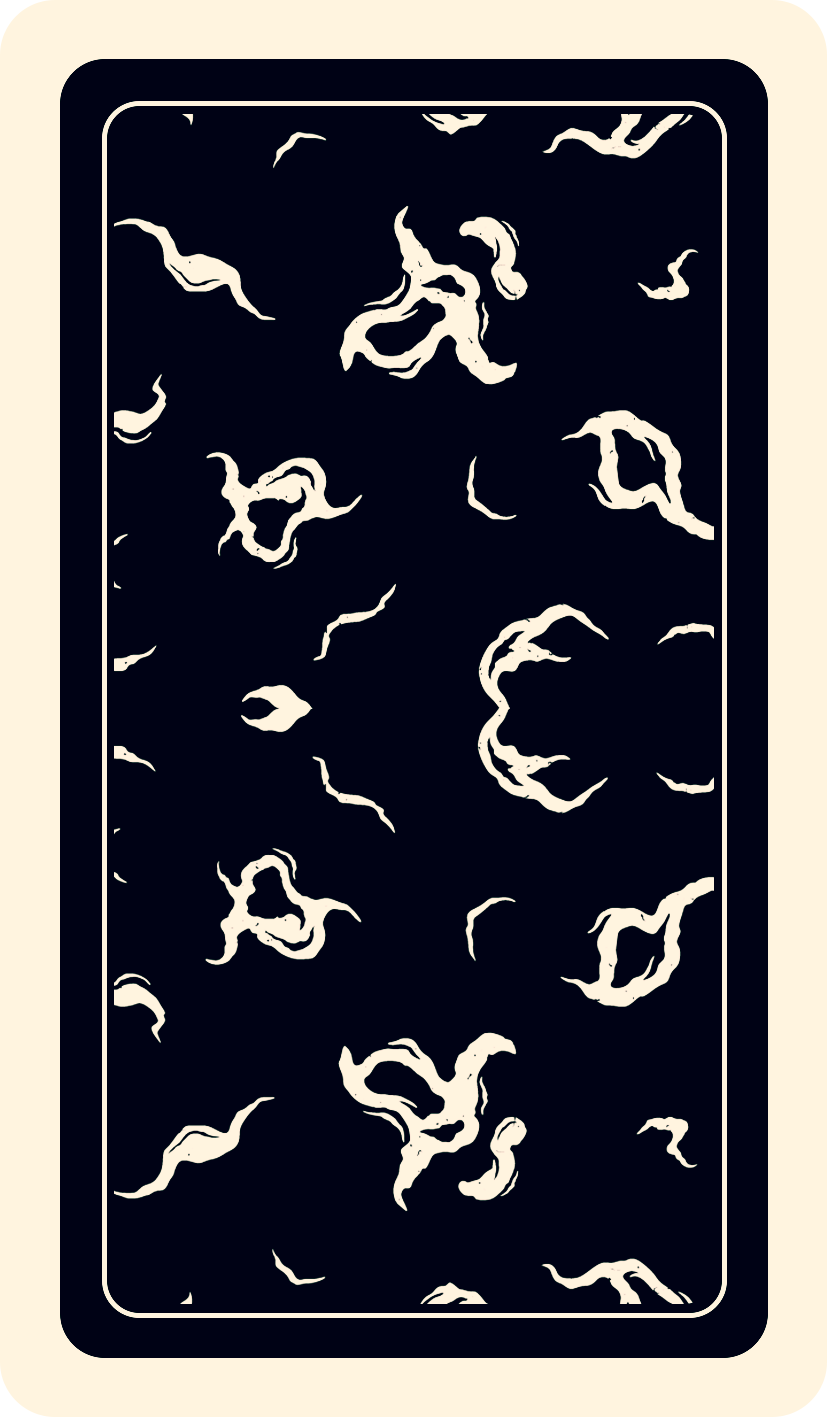
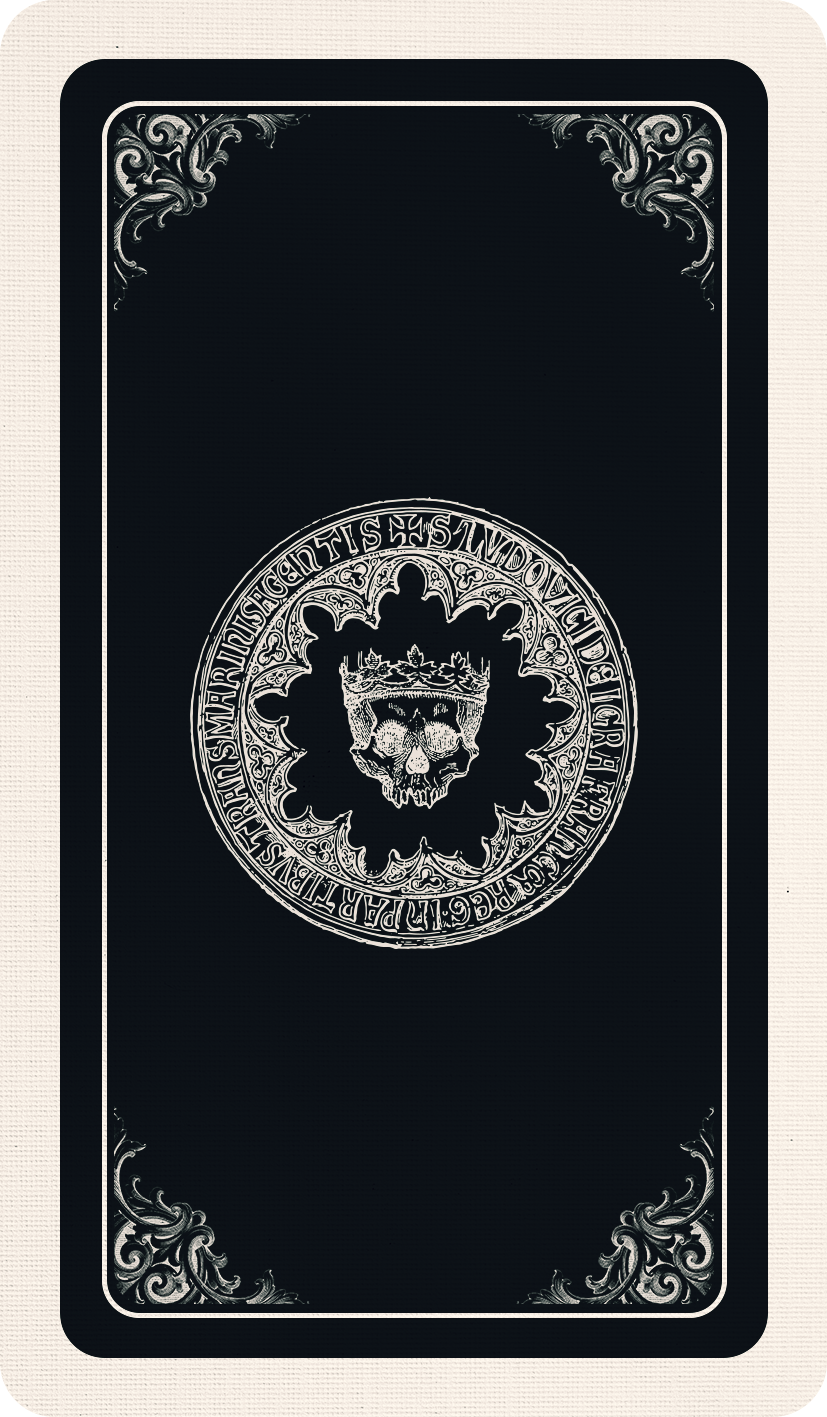
updated card

diff --git a/src/app/components/card/card-scene.tsx b/src/app/components/card/card-scene.tsx
@@ -4,28 +4,40 @@ import { Float, useTexture } from "@react-three/drei";
 import { animated, useSpring } from "@react-spring/three";
 
 export function CardScene() {
-  const [flipped, setFlipped] = useState(false);
-  const [isFlipping, setIsFlipping] = useState(false);
+  const [isFlipped, setIsFlipped] = useState(true);
+  const [isAnimating, setIsAnimating] = useState(false);
 
-  const [cardFront] = useTexture(["/images/card-front.png"]);
+  const [cardFront] = useTexture(["/images/tarot-front.png"]);
   const [cardBack] = useTexture(["/images/tarot-back.png"]);
   const [springs] = useSpring(
     () => ({
-      rotationY: flipped ? -3.2 : 0,
-      onStart: () => setIsFlipping(true),
-      onResolve: () => setIsFlipping(false),
+      rotationY: isFlipped ? -3.2 : 0,
+      onStart: () => setIsAnimating(true),
+      onResolve: () => setIsAnimating(false),
     }),
-    [flipped, setIsFlipping]
+    [isFlipped, setIsAnimating]
   );
+
+  const handleMouseEnter = () => {
+    document.body.classList.add("cursor-pointer");
+  };
+
+  const handleMouseLeave = () => {
+    document.body.classList.remove("cursor-pointer");
+  };
 
   return (
     <>
-      <pointLight intensity={75} position={[0, 1, 5]}></pointLight>
-      <Float speed={3} floatingRange={[0.25, -0.25]}>
+      <pointLight intensity={60} position={[0, 1, 5]}></pointLight>
+      <Float speed={3} floatingRange={[0.1, -0.1]}>
         <animated.mesh
           castShadow
           rotation-y={springs.rotationY}
-          onClick={!isFlipping ? () => setFlipped((prev) => !prev) : undefined}
+          onClick={
+            !isAnimating ? () => setIsFlipped((prev) => !prev) : undefined
+          }
+          onPointerEnter={handleMouseEnter}
+          onPointerLeave={handleMouseLeave}
         >
           <planeGeometry args={[70 / 22, 120 / 22, 10, 10]}></planeGeometry>
           <meshLambertMaterial
@@ -43,7 +55,11 @@ export function CardScene() {
         </animated.mesh>
         <animated.mesh
           rotation-y={springs.rotationY}
-          onClick={!isFlipping ? () => setFlipped((prev) => !prev) : undefined}
+          onClick={
+            !isAnimating ? () => setIsFlipped((prev) => !prev) : undefined
+          }
+          onPointerEnter={handleMouseEnter}
+          onPointerLeave={handleMouseLeave}
         >
           <planeGeometry args={[70 / 22, 120 / 22, 10, 10]}></planeGeometry>
           <meshLambertMaterial

diff --git a/src/app/page.tsx b/src/app/page.tsx
@@ -24,7 +24,7 @@ export default function Home() {
   return (
     <section>
       <div className="h-[calc(100vh-15rem)] mb-24 flex flex-col justify-stretch items-stretch">
-        <div className="relative w-full mb-16 flex-1 flex flex-col justify-center">
+        <div className="relative w-full -mt-16 flex-1 flex flex-col justify-center">
           <div className="absolute left-0 top-0 w-full h-full">
             <Card />
           </div>
